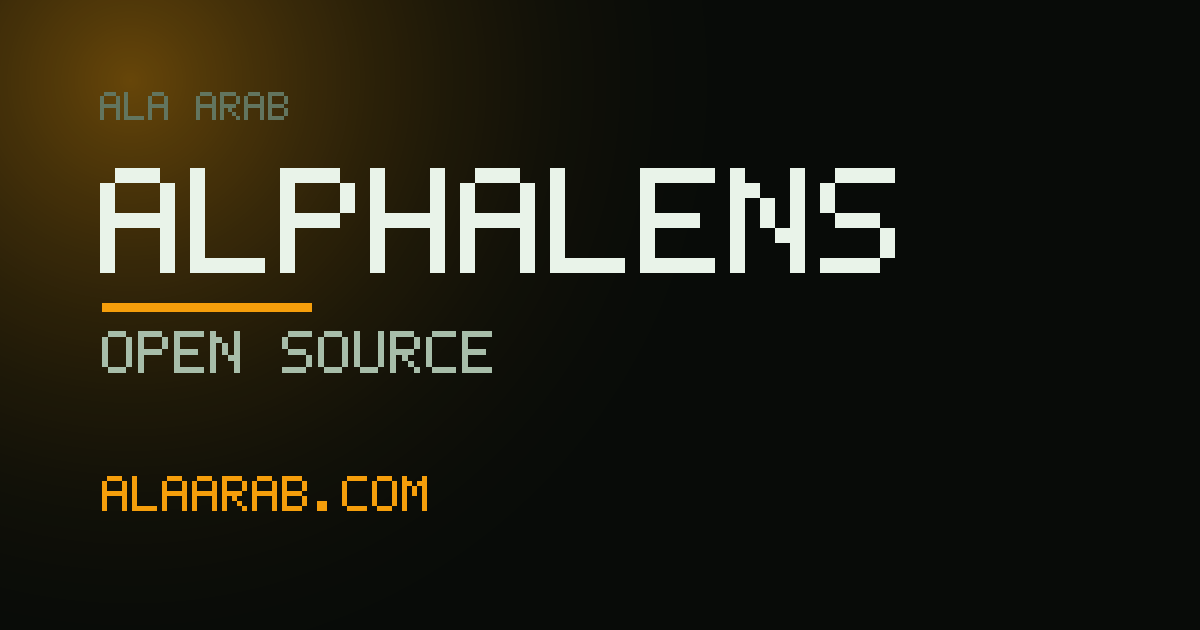
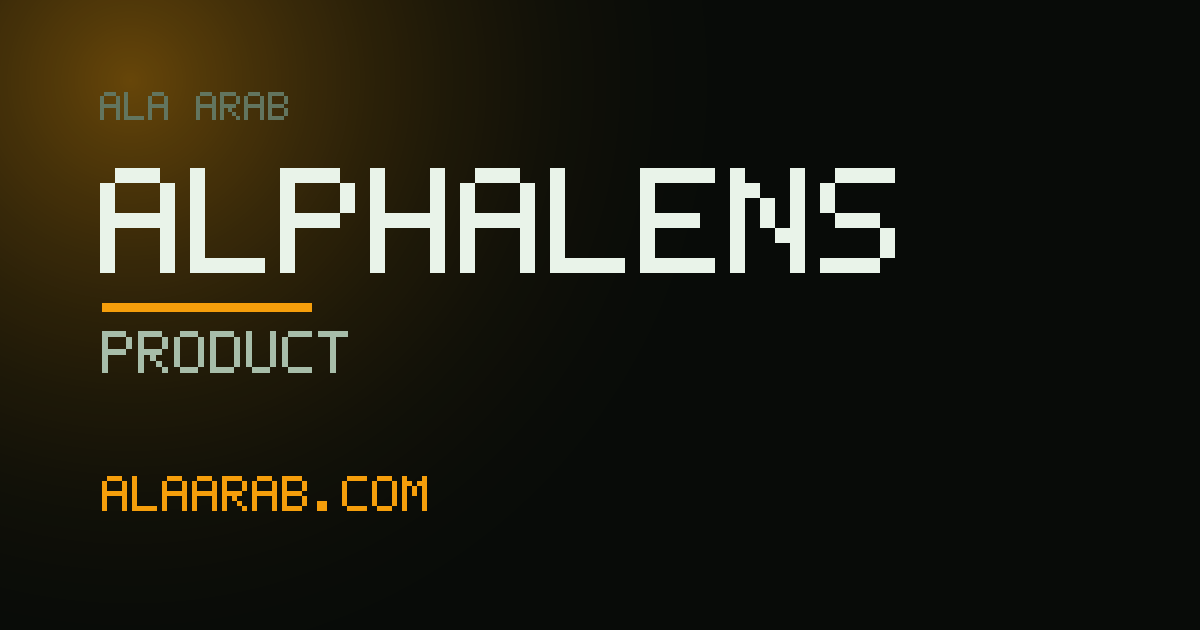
Refresh project catalog: add Basis, Mina, Mutter; update Phren, Atlas, OGrid, Intrapath, AlphaLens, m4l-builder
Drop GitHub links to repos that are now private, read the header date from
nowMeta, regenerate OG cards for new/changed slugs, and fix stale e2e title
assertions.

Changed region(s): [[0.0925, 0.5127, 0.4008, 0.6032]]

diff --git a/src/data/siteContent.ts b/src/data/siteContent.ts
@@ -14,7 +14,7 @@ export const siteMeta: SiteMeta = {
   intro:
     "Mostly TypeScript and Python these days, across web apps, developer tooling, and audio software.",
   summary:
-    "Most of what I ship now is open source: persistent memory for AI agents, headless spreadsheet hooks, a Python toolchain for Max for Live, an MCP bridge for Ableton, and a local-first ticket explorer. Before that, thirteen years at a consulting firm. I built Intranet there, an internal ERP that became the company's system of record (and a licensed product on the side), and grew the engineering team and infrastructure around it.",
+    "Most of what I ship now is open source: persistent memory for AI agents, a React spreadsheet grid, a Python toolchain for Max for Live, an MCP bridge for Ableton, a Mumble client, and a newborn log for iPhone. Alongside those, a crypto reconciliation SaaS and a multi-tenant ERP. Before that, thirteen years at a consulting firm. I built Intranet there, an internal ERP that became the company's system of record (and a licensed product on the side), and grew the engineering team and infrastructure around it.",
   location: "Los Angeles, California",
   email: "alaarab@gmail.com",
   emailHref: "mailto:alaarab@gmail.com",
@@ -37,19 +37,19 @@ export const projects: Project[] = [
     status: "Active",
     year: "2026",
     summary:
-      "Persistent memory for AI coding agents. Findings, tasks, and patterns stay as markdown in a git repo you own.",
+      "Persistent memory for AI coding agents. Findings, tasks, and patterns stay as markdown in a git repo you own, and you can browse the same store from a terminal shell, a 3D web graph, VS Code, or an iPhone.",
     outcome:
       "Findings, tasks, and context persist as markdown across sessions, projects, and machines, and reload automatically.",
     problem:
       "AI coding agents lose everything between sessions, so the same context has to be rebuilt over and over.",
     build:
-      "I built it as a TypeScript monorepo: an MCP server, a CLI, and hooks that capture findings and tasks into plain markdown. No database, no vendor lock-in.",
+      "I built it as a TypeScript monorepo: an MCP server that exposes ten tools by default (an admin tool reaches the other fifty by name, so the schema stays small), a CLI, and hooks that capture findings and tasks into plain markdown. No database, no vendor lock-in. Findings have a lifecycle (supersede, retract, contradict) and trust that decays over time, and a fragment graph links concepts across projects. The store has seven front ends on top of the same files: a full-screen terminal shell, a braille-canvas terminal graph that lights up as agents read and write, a 3D web viewer, a VS Code extension, a SwiftUI iOS app with widgets and Siri intents, and Herdr and Omarchy plugins.",
     impact:
-      "It works across Claude, Copilot, Cursor, and Codex, and reloads cleanly on a new machine with a single init command.",
-    stack: ["TypeScript", "MCP", "Turborepo", "Node.js"],
+      "It works across Claude, Copilot, Cursor, and Codex, installs as a Claude Code plugin, syncs shared stores over git, and reloads cleanly on a new machine with a single init command.",
+    stack: ["TypeScript", "MCP", "SwiftUI", "Node.js"],
     metrics: [
-      "54 MCP tools",
-      "FTS5 + semantic fallback",
+      "10 MCP tools by default, 61 in full",
+      "7 surfaces: shell, graph, web, VS Code, iOS",
       "Claude / Copilot / Cursor / Codex",
     ],
     thread: "Agent tooling",
@@ -69,20 +69,20 @@ export const projects: Project[] = [
     status: "Active",
     year: "2026",
     summary:
-      "Spreadsheet behavior for any table. Headless React hooks for inline edit, range select, the fill handle, and copy/paste.",
+      "A React data grid with spreadsheet features built in: sorting, filtering, pagination, cell editing, range selection, copy/paste, and the fill handle. Drop in the component, or compose the hooks onto your own table.",
     outcome:
-      "Teams get real spreadsheet interactions on the table chrome they already use, without adopting a heavy grid framework.",
+      "Teams get real spreadsheet interactions on the UI library they already use, without adopting a heavy grid framework.",
     problem:
       "Most data grids force you into their styling and component model just to get spreadsheet-style editing.",
     build:
-      "I built a headless, React-first library as a Turborepo monorepo, with hooks that drop onto shadcn, Material, Fluent, or a plain table, plus a built-in OGrid component.",
+      "A Turborepo monorepo with a shared core grid model, a React layer, and Radix and Fluent UI adapters, plus xlsx import/export packages and an MCP server that lets AI editors search the docs and drive live grid instances in a running app. The earlier vanilla JS, Material, Angular, and Vue variants are frozen on a legacy branch.",
     impact:
-      "It ships as MIT-licensed npm packages with documentation and an AG Grid migration guide.",
-    stack: ["React", "TypeScript", "Headless UI", "npm"],
+      "It ships as MIT-licensed npm packages with documentation, an AG Grid migration guide, and a Discord community.",
+    stack: ["React", "TypeScript", "Radix", "Fluent UI", "MCP"],
     metrics: [
-      "Headless hooks",
-      "Drops onto shadcn / Material / Fluent",
-      "MIT licensed",
+      "Component or hooks",
+      "Radix / Fluent adapters",
+      "MCP docs + testing bridge",
     ],
     links: [
       { label: "Project page", href: "/projects/ogrid" },
@@ -105,13 +105,13 @@ export const projects: Project[] = [
     problem:
       "Building Max for Live devices means clicking around a GUI, which makes the work hard to version, review, or reproduce.",
     build:
-      "Pure-stdlib Python library that emits valid .amxd files: 90+ DSP blocks, a theme system, jsui visual engines, a recipe layer for common combos, and a reverse-engineering pipeline that reads existing devices back into Python.",
+      "Pure-stdlib Python library that emits valid .amxd files: 100+ DSP blocks, a theme system, jsui visual engines, a recipe layer for common combos, and a reverse-engineering pipeline that reads existing devices back into Python.",
     impact:
       "Ships on PyPI with a test suite that asserts the produced .amxd files actually load in Ableton, and a corpus-mining toolchain that turns external devices into structured fixture data.",
     stack: ["Python", "Max for Live", "Audio DSP", "PyPI"],
     metrics: [
-      "90+ DSP blocks",
-      "880+ tests",
+      "100+ DSP blocks",
+      "Tests assert audio behavior",
       "Reverse-engineering pipeline",
     ],
     thread: "Music tooling",
@@ -119,7 +119,6 @@ export const projects: Project[] = [
       "Write scripts, emit .amxd files straight to your Ableton User Library. No Max GUI required.",
     links: [
       { label: "Project page", href: "/projects/m4l-builder" },
-      { label: "GitHub", href: "https://github.com/alaarab/m4l-builder" },
       { label: "PyPI", href: "https://pypi.org/project/m4l-builder/" },
     ],
     featured: true,
@@ -164,20 +163,20 @@ export const projects: Project[] = [
     status: "In active development",
     year: "2026",
     summary:
-      "Personal rewrite of the project-based ERP I built and ran at ADM for a decade. React on Bun this time, with the data model designed around project workflows from the start.",
+      "Rewrite of the project-based ERP I built and ran at ADM for a decade, this time as a multi-tenant SaaS: projects, timesheets, invoicing, expenses, HR, and reporting on Bun and React.",
     outcome:
-      "A project-based ERP with the workflow modeled into the data layer from day one.",
+      "A project-based ERP with the workflow modeled into the data layer from day one, and self-service orgs with per-seat billing on top.",
     problem:
       "After ten-plus years running the original Intranet on Ruby on Rails, I learned a lot about what fit a project-based business and what was a compromise that calcified. Time to start fresh, with the workflow modeled right from the data layer up.",
     build:
-      "React on Bun. Rebuilding the data model and workflow primitives from scratch, modeling project-based organizations directly in the schema rather than bending an existing CRM or PM tool to fit.",
+      "Bun + Hono API over Drizzle and Postgres, React 19 with TanStack Query on the front. Every module is composed from a set of arc primitives: base models, fail-closed authorization policies, approval-workflow state machines, CRUD and workflow hooks, and shared UI components. Signup, org creation, member invitations, and Stripe per-seat billing are built in.",
     impact:
       "Active development. No public release yet.",
-    stack: ["React", "Bun", "TypeScript"],
+    stack: ["Bun", "Hono", "Drizzle", "Postgres", "React 19", "Stripe"],
     metrics: [
       "Successor to Intranet",
-      "React + Bun",
-      "Workflow-first data model",
+      "Multi-tenant, per-seat billing",
+      "Fail-closed authorization",
     ],
     links: [{ label: "Project page", href: "/projects/intrapath" }],
     featured: true,
@@ -190,26 +189,117 @@ export const projects: Project[] = [
     status: "Stable",
     year: "2026",
     summary:
-      "A full ITSM platform you run in the browser. On top of the ticket views, Atlas mirrors every ticket to disk as markdown and exposes them to any AI tool through MCP, so the same queue lives in your editor and your agents too.",
+      "Multi-tenant ticketing on Bun, Hono, and Postgres, with a local-first desktop frontend that mirrors every ticket to disk as markdown and an MCP server, so the same queue lives in the browser, your editor, and your agents.",
     outcome:
       "Service management runs in the browser, while the same tickets become a corpus your editor and your agents can both read.",
     problem:
       "Most ITSM tools lock everything behind a browser SPA: no local files, no way to grep a queue, and nothing an AI tool can investigate without a half-dozen round trips.",
     build:
-      "Bun + Hono server, no-bundler ES module frontend, force-directed D3 graph for ticket relationships, and an MCP server with one fan-out tool that returns a full investigation envelope. The markdown mirror is loopback-only with a read-only allowlist.",
+      "A monorepo in four pieces. A multi-tenant API on Bun + Hono + Postgres with auth, orgs, tickets, actions, tags, attachments, full-text search, and inbound email, scoped by org from the session rather than the URL. A web SPA with dashboard, list, tile, and D3 graph views. A local-first desktop daemon that mirrors tickets to ~/.atlas as markdown. And an MCP server that lets any AI coding tool investigate a ticket in one call.",
     impact:
-      "Stable since 1.0.0 with a sigstore-signed release pipeline, CycloneDX SBOM, CodeQL, a smell-check workflow that blocks writes outside the allowlist, and an operational /health endpoint.",
-    stack: ["Bun", "Hono", "D3", "MCP", "Biome"],
+      "Pluggable storage (filesystem or S3) and email (console, file, Postmark), hashed bearer tokens, and a CI pipeline with a sigstore-signed release flow, CycloneDX SBOM, and CodeQL.",
+    stack: ["Bun", "Hono", "Postgres", "D3", "MCP"],
     metrics: [
-      "14 typed MCP tools",
-      "Loopback-only, read-only allowlist",
-      "Sigstore + SBOM releases",
+      "26 MCP tools",
+      "Multi-tenant by org, never by URL",
+      "Markdown mirror on disk",
     ],
     thread: "Agent tooling",
     quote:
       "A full ITSM in the browser, with the same tickets as real Markdown on disk, so your editor gets a folder and your AI gets a corpus.",
     links: [{ label: "Project page", href: "/projects/atlas" }],
     featured: true,
+  },
+  {
+    slug: "basis",
+    accent: "#0f766e",
+    title: "Basis",
+    category: "Current",
+    status: "In active development",
+    year: "2026",
+    summary:
+      "Crypto reconciliation SaaS. Wallet history across fourteen chains, read-only exchange sync, statement imports, and traceable FIFO worksheets you can audit line by line.",
+    outcome:
+      "Every number on a draft tax worksheet traces back to a lot, a source row, and a reviewed decision. Nothing is silently zeroed.",
+    problem:
+      "Crypto tax tools guess. Missing cost basis becomes zero, transfers between your own wallets become sales, and there is no way to see why a figure is what it is.",
+    build:
+      "Hono on Node with a persistent SQLite database. Wallet readers for Bitcoin, XRP Ledger, Solana, and the EVM chains (Ethereum, Base, Arbitrum, Optimism, Polygon, BNB, Avalanche, HyperEVM, and more), read-only connectors for Kraken, Binance, Coinbase Exchange, and Gemini with server-encrypted keys, importers for the major exchange statement formats, and an exact-decimal, account-specific FIFO engine with missing-basis propagation and grouped undo. Solana memecoin routes, native staking, Aave and Uniswap v3 positions, and Hyperliquid perps each get their own reviewed accounting.",
+    impact:
+      "Private beta. Coverage is tracked as a 126-item parity backlog with acceptance criteria, worked example worksheets, and a documented limit for every connector.",
+    stack: ["TypeScript", "Hono", "SQLite", "Node.js"],
+    metrics: [
+      "14 chain readers",
+      "4 exchange connections + CSV/JSON imports",
+      "Traceable FIFO lots",
+    ],
+    thread: "Crypto",
+    quote:
+      "Blank USD values stay unresolved; they are never silently assigned a zero cost.",
+    links: [{ label: "Project page", href: "/projects/basis" }],
+    featured: true,
+  },
+  {
+    slug: "mina",
+    accent: "#ec4899",
+    title: "Mina",
+    category: "Open source",
+    status: "Shipped",
+    year: "2026",
+    summary:
+      "A newborn log for two phones. Feeds, diapers, and sleep logged by tap, widget, or Siri, shared through iCloud so both parents see the same log.",
+    outcome:
+      "Two tired parents get one shared log, a feed alarm, and a handoff for the nights, with nothing leaving their phones.",
+    problem:
+      "Baby-tracking apps want accounts, subscriptions, and a server holding your newborn's data. I wanted one that was free, private, and fast enough to use one-handed at 3 AM.",
+    build:
+      "SwiftUI on iPhone and iPad with CloudKit sharing, Home Screen and lock-screen widgets through an App Group, Siri intents, partner alerts that batch and rate-limit themselves, a calendar and searchable history, an age-based guide, and an on-device Ask that answers questions about the log without a network call.",
+    impact:
+      "Built for my own daughter. Free, open source, no accounts, no servers.",
+    stack: ["Swift", "SwiftUI", "CloudKit", "WidgetKit"],
+    metrics: [
+      "iPhone + iPad",
+      "iCloud sharing between phones",
+      "On-device Ask, no servers",
+    ],
+    thread: "iOS",
+    quote: "Free, open source, no accounts, no servers.",
+    links: [
+      { label: "Project page", href: "/projects/mina" },
+      { label: "GitHub", href: "https://github.com/alaarab/mina" },
+      { label: "Website", href: "https://alaarab.github.io/mina/" },
+    ],
+    featured: true,
+  },
+  {
+    slug: "mutter",
+    accent: "#6366f1",
+    title: "Mutter",
+    category: "Open source",
+    status: "Active",
+    year: "2026",
+    summary:
+      "A Mumble client for desktop, Mac, iOS, Android, and the web. Join a server, see who is around, and talk.",
+    outcome:
+      "One voice-chat client with a consistent design across every platform, connecting to the Mumble servers people already run.",
+    problem:
+      "Mumble is a great protocol with a dated, fragmented client story, especially on phones.",
+    build:
+      "A shared web client that runs in the browser (through a local Node bridge) and in Electron, plus native SwiftUI and Jetpack Compose apps with their own Mumble protocol implementations. Push-to-talk, voice activation, per-user volume, text and image messages, and a screen and camera sharing extension. Themes and fonts are generated from one shared design source.",
+    impact:
+      "Connects to regular Mumble servers on every platform; screen sharing is a Mutter extension so viewers need Mutter too.",
+    stack: ["TypeScript", "Electron", "SwiftUI", "Jetpack Compose"],
+    metrics: [
+      "5 platforms",
+      "Screen + camera sharing",
+      "One shared design source",
+    ],
+    links: [
+      { label: "Project page", href: "/projects/mutter" },
+      { label: "GitHub", href: "https://github.com/alaarab/mutter" },
+      { label: "Docs", href: "https://alaarab.github.io/mutter/" },
+    ],
+    featured: false,
   },
   {
     slug: "intranet-erp",
@@ -282,28 +372,27 @@ export const projects: Project[] = [
     slug: "alphalens",
     accent: "#f59e0b",
     title: "AlphaLens",
-    category: "Open source",
-    status: "Shipped",
-    year: "2025",
+    category: "Product",
+    status: "Active",
+    year: "2025 to present",
     summary:
-      "A Discord bot for real-time crypto charts, contract lookups, and trending-token alerts across nine networks.",
+      "Crypto and stock alpha in your Discord: real-time charts, contract lookups, and trending-token alerts, with a marketing site and a server-owner dashboard.",
     outcome:
-      "Trading servers get the chart and contract context they want inline, without leaving Discord.",
+      "Trading servers get chart and contract context inline, and server owners get a dashboard and a Pro tier without leaving the ecosystem.",
     problem:
       "Existing bots either lock features behind subscriptions or stop short of the cross-network coverage active trading rooms actually use.",
     build:
-      "Node.js bot with slash commands, encrypted per-server settings storage, rotating API keys for the upstream provider, and a monitoring loop that posts trending-token alerts to a watched channel.",
+      "Bun + TypeScript monorepo: a discord.js bot with slash commands, a token monitor, and a payment monitor, plus a Hono site with React SSR for the dashboard and a Pro-gated trenches view. Both share one SQLite file. Every asset class has a keyless default provider (CoinGecko, GeckoTerminal, Yahoo Finance) and an optional keyed one.",
     impact:
-      "Runs on PM2 in production, MIT licensed, and covers Solana, Ethereum, BSC, Avalanche, Fantom, Base, Berachain, Sui, and Monad.",
-    stack: ["Node.js", "Discord.js", "AES-256", "PM2"],
+      "Stocks work with no setup; keys only unlock premium sources. Runs in production alongside the dashboard.",
+    stack: ["Bun", "TypeScript", "discord.js", "Hono", "SQLite"],
     metrics: [
-      "9 networks",
-      "Encrypted per-server settings",
-      "PM2 in production",
+      "Crypto + stocks",
+      "Keyless defaults per asset class",
+      "Dashboard + Pro tier",
     ],
     links: [
       { label: "Project page", href: "/projects/alphalens" },
-      { label: "GitHub", href: "https://github.com/alaarab/AlphaLens" },
     ],
     featured: false,
   },
@@ -365,7 +454,7 @@ export type NowItem = {
  * nownownow.com. Refresh whenever the focus actually shifts.
  */
 export const nowMeta = {
-  asOf: "May 2026",
+  asOf: "September 2026",
   intro:
     "What I'm actively working on right now. Updated when the focus actually changes.",
 };
@@ -376,12 +465,20 @@ export const nowItems: NowItem[] = [
     body: "Day job. Database management systems for client portfolios, plus the internal tools that move data across the company: CRM through APIs into Power BI and Tableau. Lots of Node, React, and Angular.",
   },
   {
-    heading: "Rebuilding the ERP from scratch",
-    body: "Personal rewrite of the project-based ERP I built and ran at ADM for a decade. The original was Ruby on Rails over ten-plus years; this one's React on Bun, with the data model built around project workflows from the start.",
+    heading: "Basis, a crypto reconciliation SaaS",
+    body: "Wallet readers, exchange connectors, and a FIFO engine where every figure traces back to a source row. Working through a 126-item parity backlog, deepest on Hyperliquid, Solana, and the major exchanges.",
   },
   {
-    heading: "Shipping Phren past the prototype",
-    body: "Memory layer for coding agents. Getting the retrieval ranker to a place where I'd trust it on my own repos before pitching it to anyone else.",
+    heading: "Rebuilding the ERP as a SaaS",
+    body: "Intrapath is the rewrite of the project-based ERP I ran at ADM for a decade: Bun, Hono, Postgres, React 19, multi-tenant with per-seat billing, every module composed from the same authorization and workflow primitives.",
+  },
+  {
+    heading: "Phren, everywhere the store is",
+    body: "Memory layer for coding agents. The retrieval ranker is in a place I trust on my own repos; now it's the surfaces: the terminal graph, the iOS app, the VS Code extension, and shared stores syncing over git.",
+  },
+  {
+    heading: "Building for the phone",
+    body: "Mina (a newborn log for my daughter), Mutter (a Mumble client), and the Phren iOS app all shipped this year in SwiftUI. Turns out I like native iOS.",
   },
   {
     heading: "Music tooling for myself first",

diff --git a/tests/e2e/portfolio.spec.ts b/tests/e2e/portfolio.spec.ts
@@ -52,7 +52,7 @@ test.describe("projects", () => {
     ).toBeVisible();
 
     const viewLinks = page.getByRole("link", { name: "View project" });
-    await expect(viewLinks).toHaveCount(12);
+    await expect(viewLinks).toHaveCount(15);
 
     await viewLinks.first().click();
     await expect(page).toHaveURL(/\/projects\/phren$/);
@@ -121,7 +121,7 @@ test.describe("prerendered metadata", () => {
     const project = await request.get("/projects/phren");
     expect(project.status()).toBe(200);
     const html = await project.text();
-    expect(html).toContain("<title>Phren — Ala Arab</title>");
+    expect(html).toContain("<title>Phren | Ala Arab</title>");
     expect(html).toContain(
       'property="og:url" content="https://alaarab.com/projects/phren"',
     );
@@ -135,7 +135,7 @@ test.describe("prerendered metadata", () => {
 
     const home = await (await request.get("/")).text();
     expect(home).toContain(
-      "<title>Ala Arab — Full-stack developer, Los Angeles</title>",
+      "<title>Ala Arab | Full-stack developer, Los Angeles</title>",
     );
     expect(home).toContain(
       'property="og:image" content="https://alaarab.com/og.png"',

diff --git a/src/pages/Home.tsx b/src/pages/Home.tsx
@@ -7,6 +7,7 @@ import {
   contactLinks,
   experienceItems,
   featuredProjects,
+  nowMeta,
   siteMeta,
 } from "../data/siteContent";
 import { useDocumentTitle } from "../lib/useDocumentTitle";
@@ -90,7 +91,7 @@ export function Home() {
           <span className={styles.marqueeSep}>/</span>
           <span>Systems Software Architect @ Qualus</span>
           <span className={styles.marqueeSep}>/</span>
-          <span>May 2026</span>
+          <span>{nowMeta.asOf}</span>
         </div>
         <div className={styles.navWrap}>
           <a href="#top" className={styles.wordmark}>
